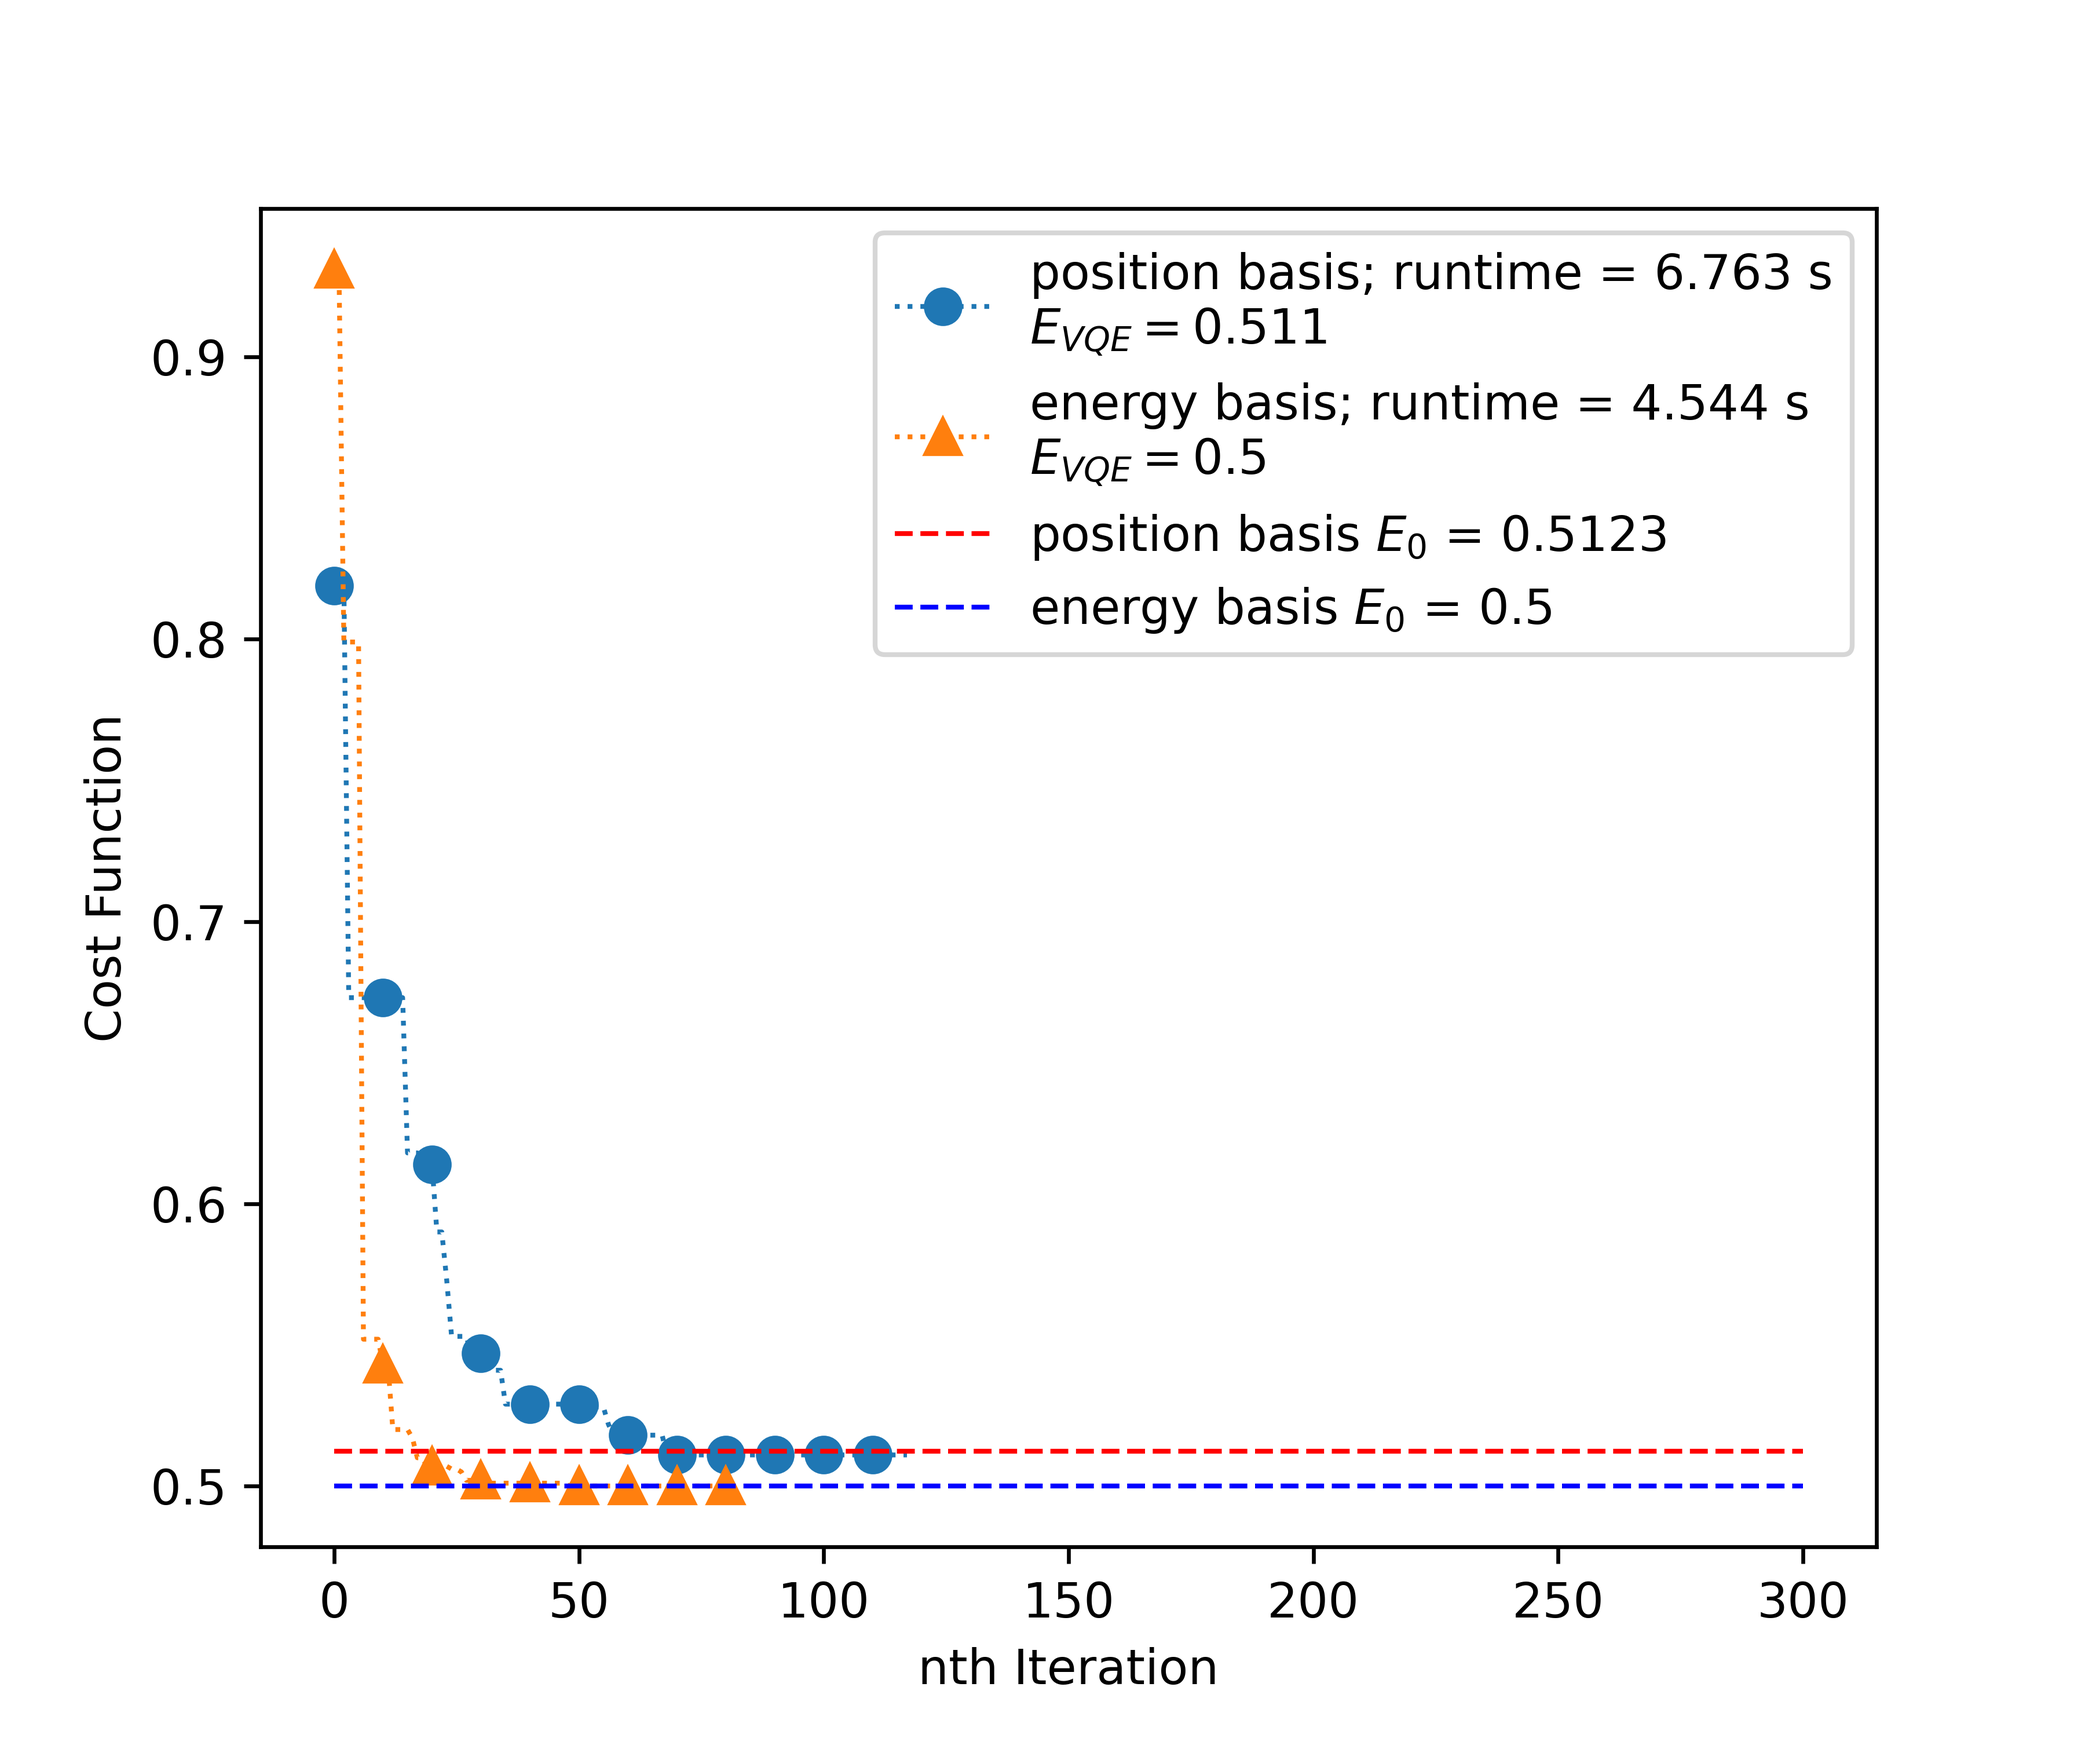
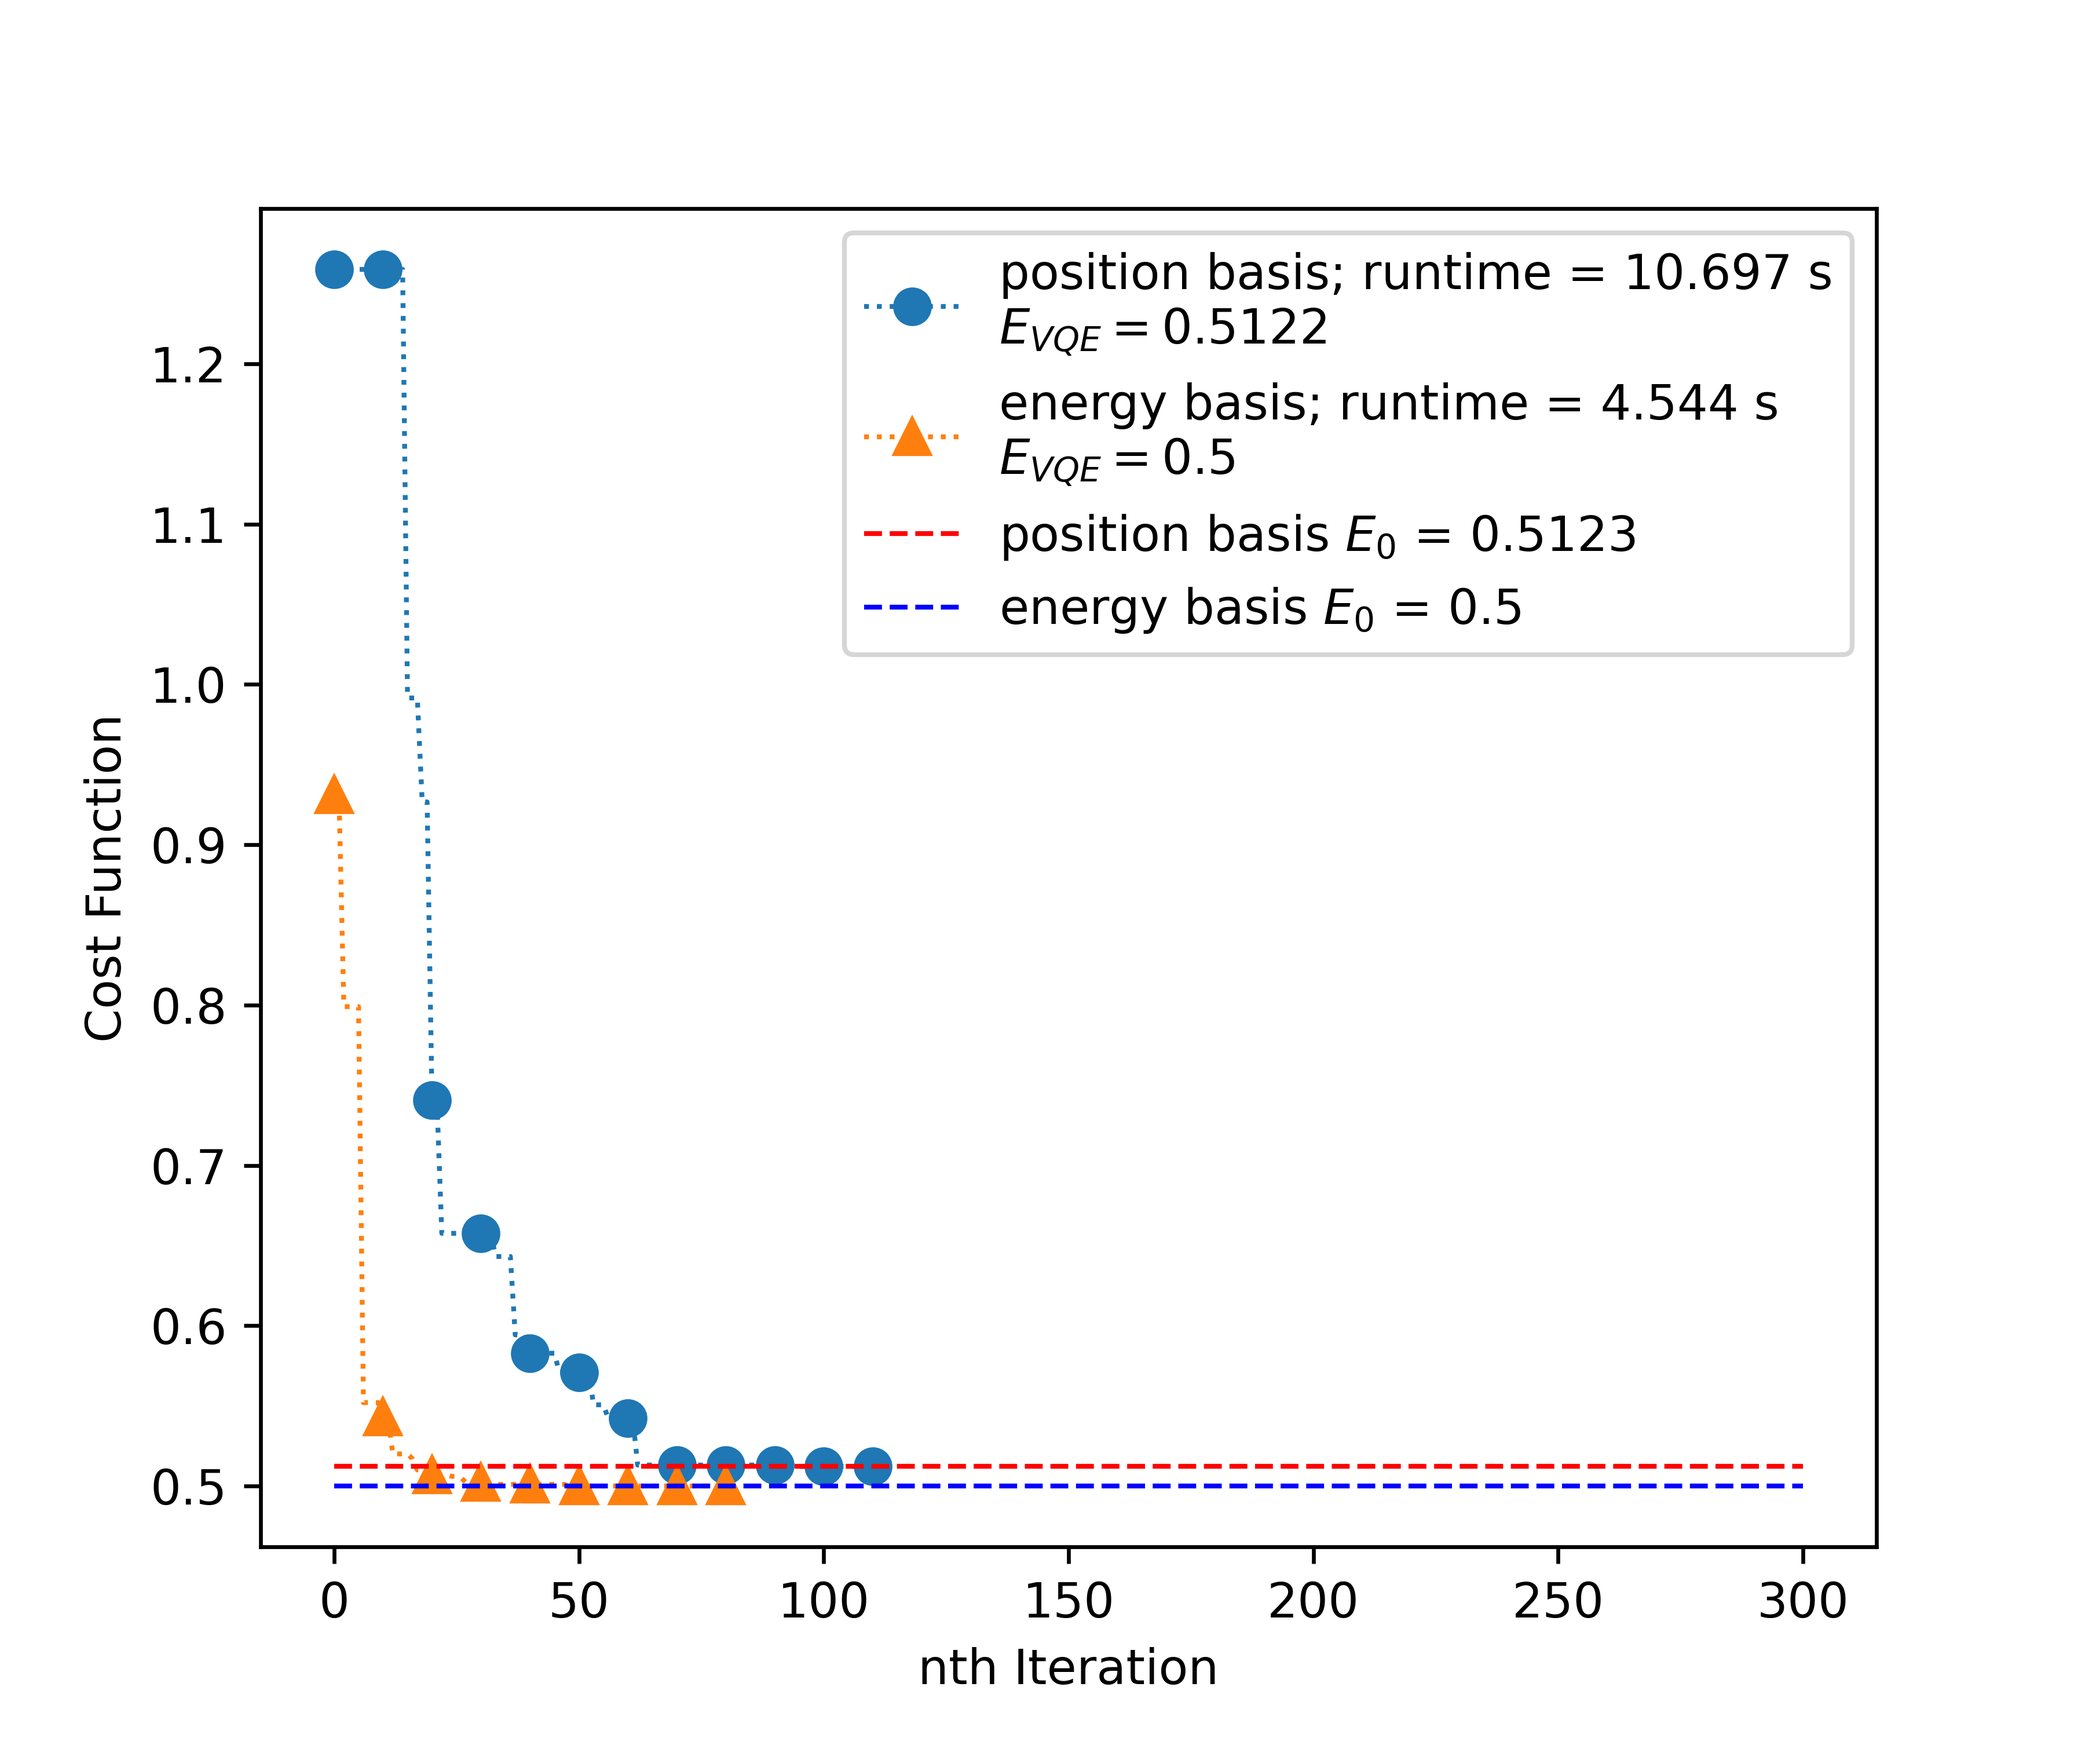
Regenereted Figures with Correct Data Sets
Figures were regenerated with correct x-axis spacing.
Was also advised by panelists to have same y-axis spacing,
but values are too large so I will settle with this. There's
an issue where values overlap for 4QHEA in the exact
ground state energy, might correct this by changing line
style for position basis.

diff --git a/graphResults.py b/graphResults.py
@@ -3,35 +3,8 @@ from core.buildHam import QHO
 import numpy as np
 import matplotlib.pyplot as plt
 
-#grab a shortlist of accurate ground states
-def countitems(path, msize, basis):
-    vals, vecs = np.linalg.eig(QHO(msize,basis))
-    exact = np.sort(vals)[0]
-    
-    df = pd.read_csv(path)
-    header1 = df.columns.values[1]
-    header2 = df.columns.values[2]
-    listlengths = []
-    acc = 50
-    for i in range(len(df[header1])):
-        removebracks = df[header1][i].replace("[","").replace("]","")
-        mylist = removebracks.split()
-        numlist = [float(i) for i in mylist]
-        listlengths.append(len(numlist))
-    return listlengths
-
-#cleared: genData/2QHEAEnBasis_30runs.csv
-#cleared: genData/2QHEAPosBasis_30runs.csv
-#rerun: genData/2QUAPosBasis_30runs.csv
-#rerun: "genData/2QUAEnBasis_30runs.csv"
-#cleared: "genData/4QHEAEnBasis_unliruns.csv"
-#cleared: genData/4QHEAPosBasis_15runs.csv
-#cleared: genData/4QHEAPosBasis_15runs2.csv
-#cleared: "genData/4QHEQEnBasis_30runs.csv" #to replace some parts with unli runs
-#to replace: "genData/4QHEQPosBasis_30runs.csv"
-#mypath = "genData/4QHEQPosBasis_30runs.csv"
-
 def shortlist(path, msize, basis):
+    # Grab a shortlist of accurate ground states
     vals, vecs = np.linalg.eig(QHO(msize,basis))
     exact = np.sort(vals)[0]
     
@@ -57,13 +30,16 @@ def shortlist(path, msize, basis):
             sltimes.append(run_time)
     return slvals, sltimes, exact
 
-mypathen = "genData/4QHEAEnBasis_unliruns.csv"
-slvalsen, sltimesen, exacten = shortlist(mypathen,16,"en")
-mypathpos = "genData/4QHEAPosBasis_15runs.csv"
-slvalspos, sltimespos, exactpos = shortlist(mypathpos,16,"pos")
+# Edit paths and matrix size here
+mypathen = "genData/2QHEAEnBasis.csv"
+slvalsen, sltimesen, exacten = shortlist(mypathen,4,"en")
+mypathpos = "genData/2QHEAPosBasis.csv"
+slvalspos, sltimespos, exactpos = shortlist(mypathpos,4,"pos")
+# Edit img path here
+imgpath  ="genFigs/2QHEA.png"
 
 maxlen = 500
-#grab shortest number of iterations and graph
+# Grab shortest number of iterations and graph
 import matplotlib.pyplot as plt
 for i in range(len(slvalsen)):
     if len(slvalsen[i]) < maxlen:
@@ -93,5 +69,6 @@ ax.legend(["position basis; runtime = "+str(round(tographpos[1],3)) + " s\n" r"$
            "energy basis; runtime = "+str(round(tographen[1],3)) + " s\n" r"$E_{VQE} = $" + str(np.round(tographen[0][-1],4)),
            "position basis "+ r"$E_0$ = "+str(np.real(np.round(exactpos,4))),
            "energy basis " + r"$E_0$ = "+str(exacten)],loc='best')
-plt.savefig("genFigs/4QHEA.png", dpi=600)
+
+plt.savefig(imgpath, dpi=600)
 plt.show()
